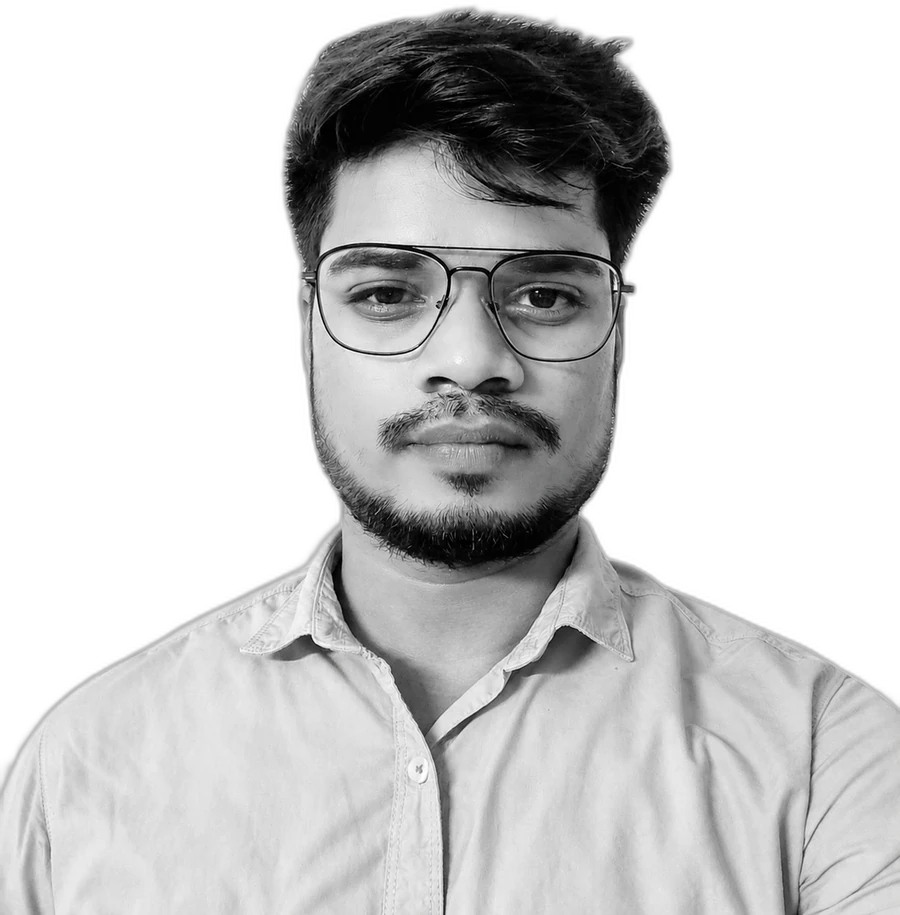
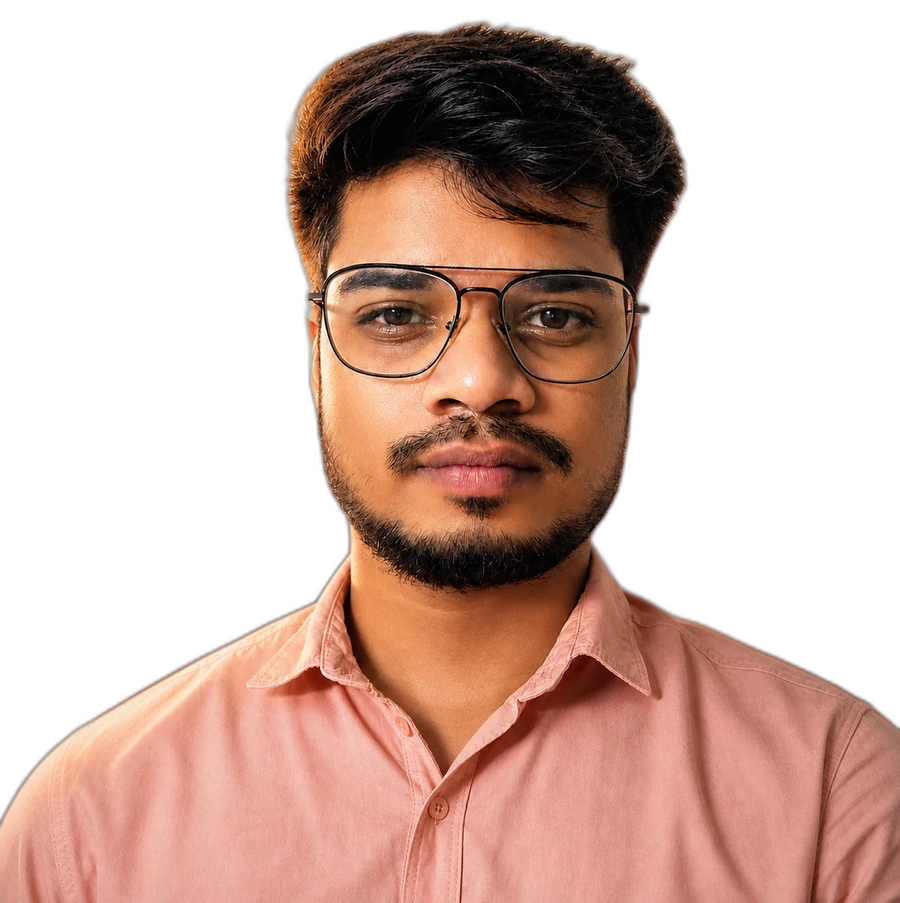
Swap hero portrait and remove unconfigured-form helper text
- New headshot (studio-style, warm gradient backdrop) processed the
  same way as before: background removed locally with rembg, cropped
  to content, exported as WebP, replacing public/photo/headshot-cutout.webp
- InteractivePhoto now applies grayscale + a contrast boost via CSS
  filter (composed with the existing drop-shadow) since this source
  photo is full color, keeping it consistent with the site's
  black/white/red-only palette
- Removed the "Submitting opens your email client..." fallback line
  from the contact form

diff --git a/src/components/Contact.tsx b/src/components/Contact.tsx
@@ -111,11 +111,6 @@ export default function Contact() {
           {status === "error" && (
             <p className="mt-3 text-sm text-red-600">Something went wrong — email me directly at {profile.email}.</p>
           )}
-          {!FORM_ENDPOINT && (
-            <p className="mt-3 text-xs text-[var(--color-text-dim)]">
-              Submitting opens your email client (form backend not yet configured — see README).
-            </p>
-          )}
         </form>
       </div>
     </section>

diff --git a/src/components/InteractivePhoto.tsx b/src/components/InteractivePhoto.tsx
@@ -43,7 +43,7 @@ export default function InteractivePhoto({ className = "" }: InteractivePhotoPro
         alt="Pankaj Kumar"
         draggable={false}
         className="h-full w-full select-none object-contain object-bottom"
-        style={{ filter: "drop-shadow(0 24px 32px var(--color-shadow-photo))" }}
+        style={{ filter: "grayscale(1) contrast(1.12) drop-shadow(0 24px 32px var(--color-shadow-photo))" }}
       />
     </div>
   );
